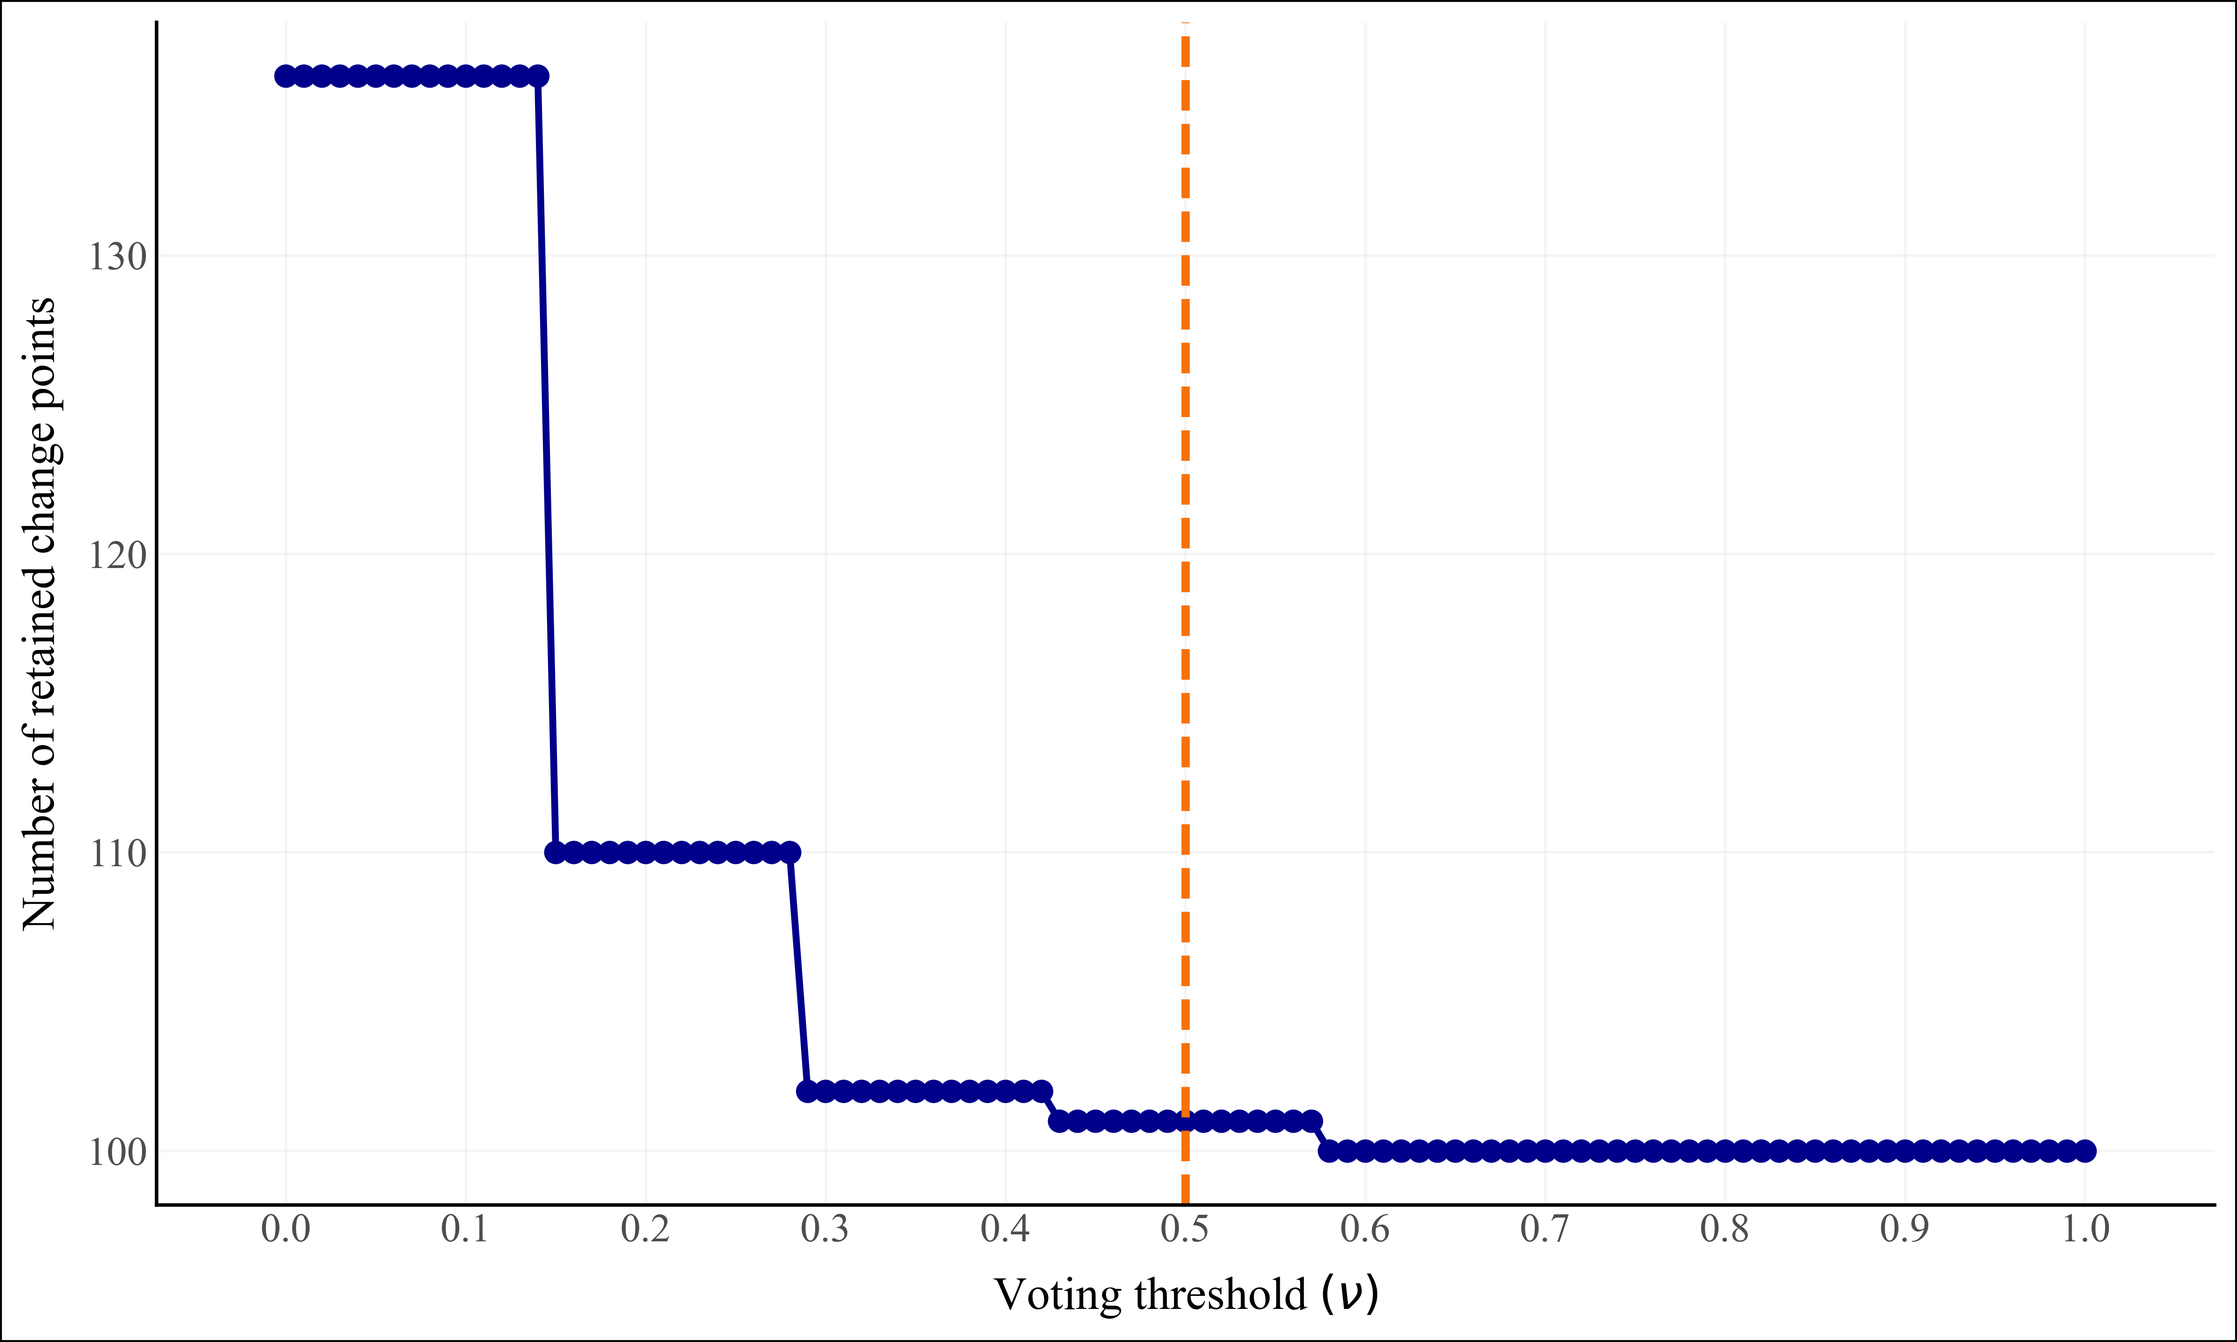
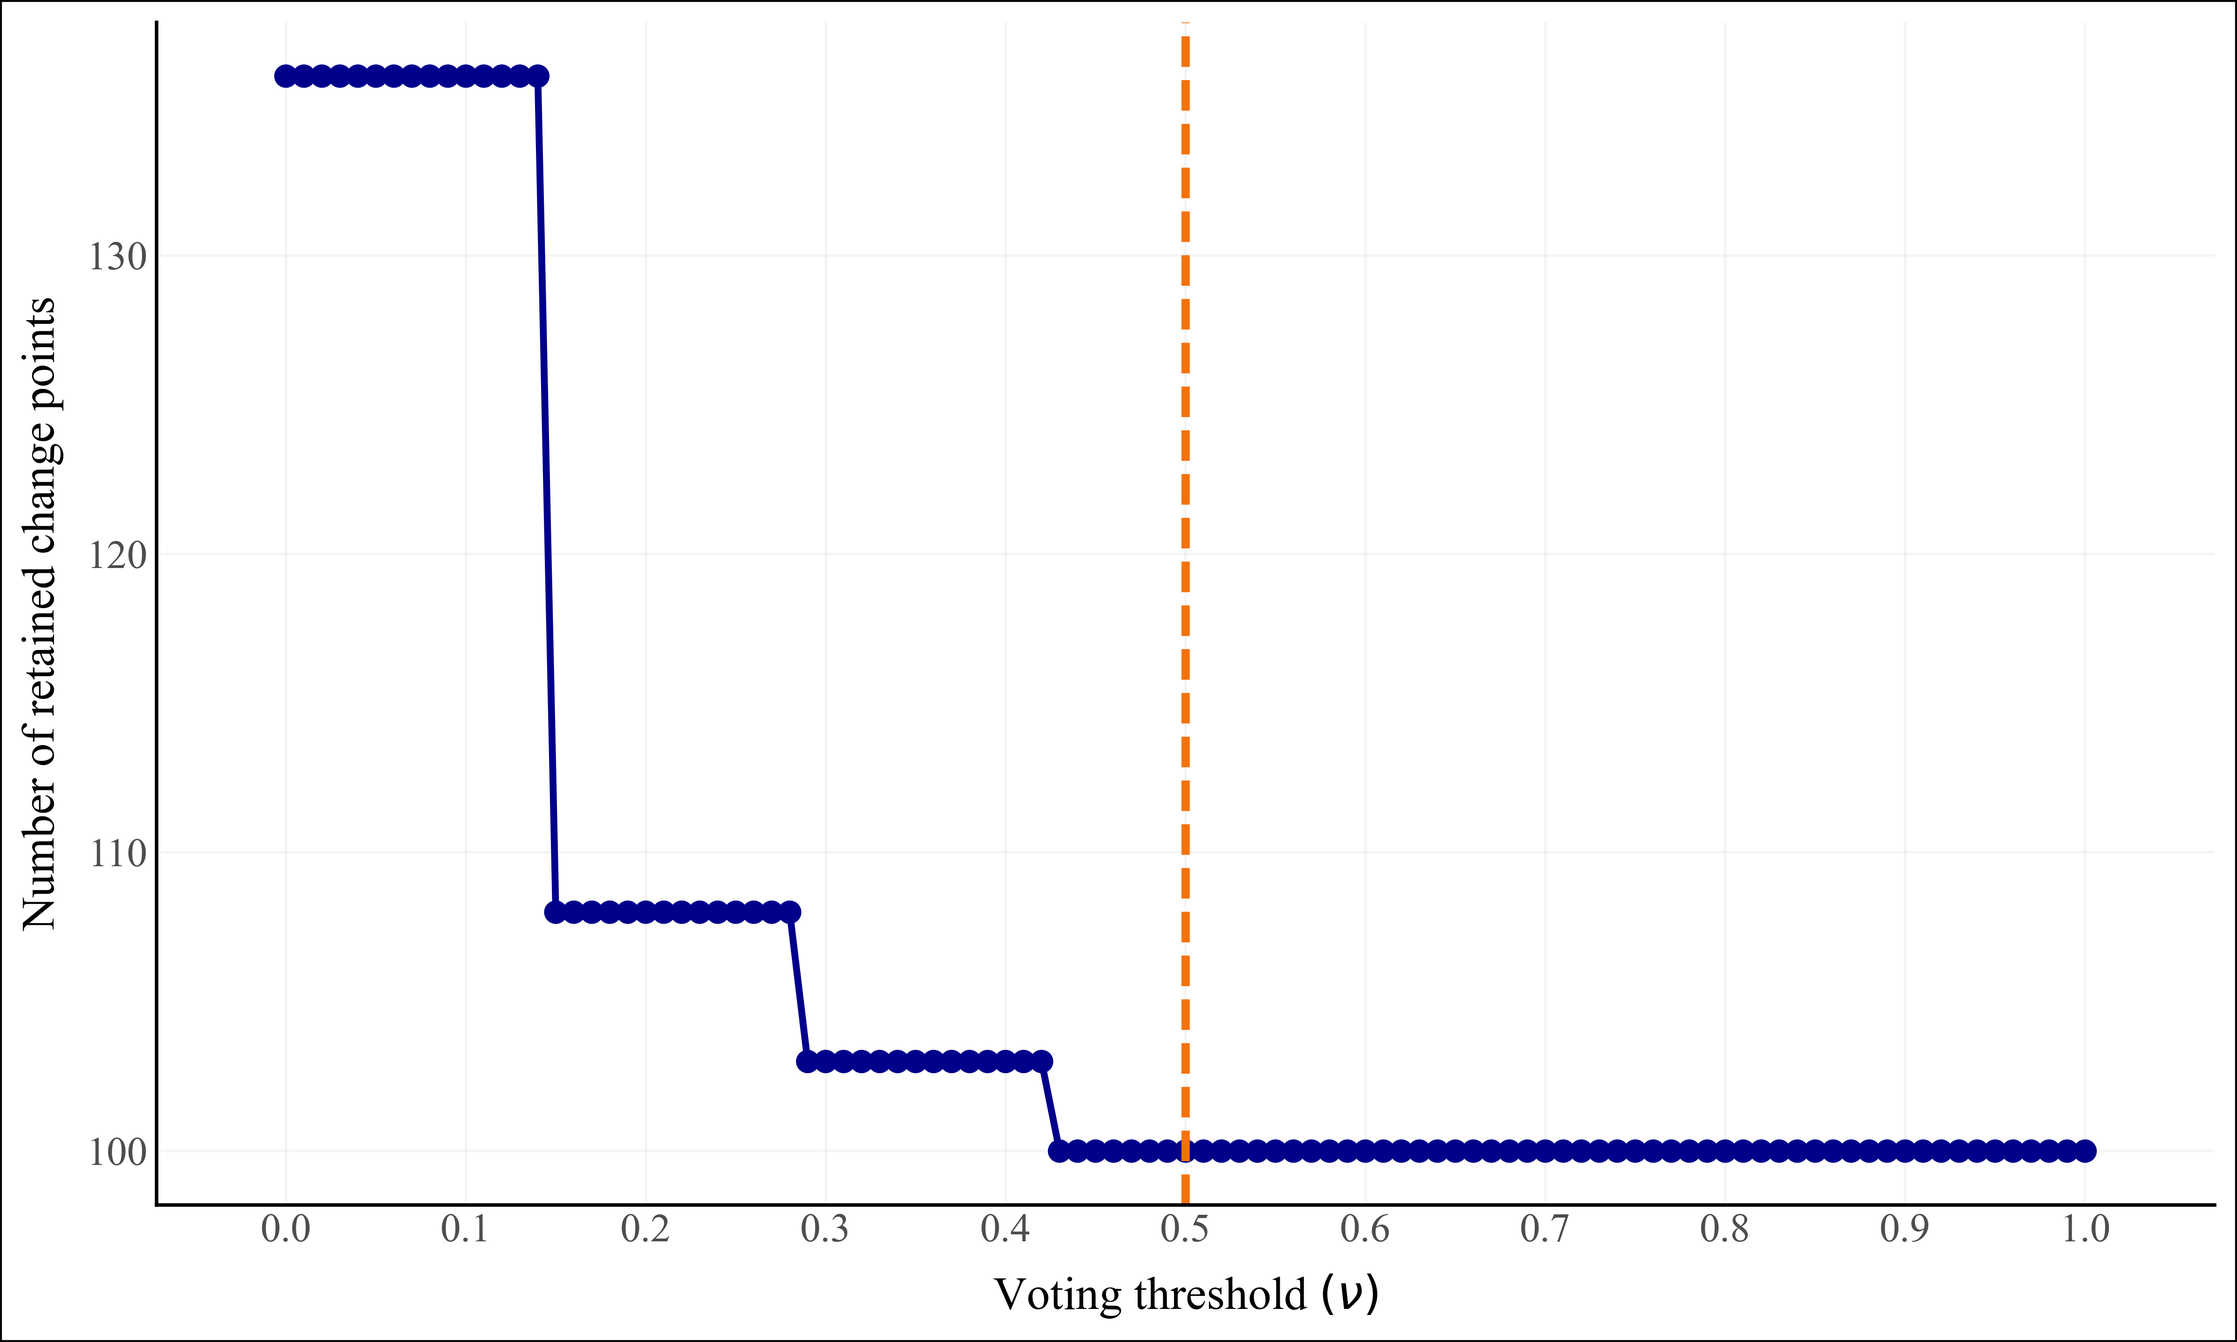
documentation changes

Changed region(s): [[0.3438, 0.7812, 0.5938, 0.875], [0.2188, 0.625, 0.375, 0.7188]]

diff --git a/python/scan/plotting.py b/python/scan/plotting.py
@@ -20,7 +20,7 @@ from plotnine import (
     scale_linetype_manual,
     scale_x_continuous,
     theme,
-    theme_minimal
+    theme_minimal,
 )
 
 from .result import ScanResult
@@ -69,6 +69,114 @@ def _scan_plot_theme(legend_position="none"):
         legend_background=element_blank(),
         legend_box_background=element_blank(),
     )
+
+def plot_time_series(
+    x: Iterable[float],
+    change_points: Optional[Iterable[int]] = None,
+    true_change_points: Optional[Iterable[int]] = None,
+    index: Optional[Iterable[float]] = None,
+    x_label: str = "Time",
+    y_label: str = "Value",
+    title: str = "Time series",
+):
+    """Plot a univariate time series with optional change-point markers."""
+    y = np.asarray(x, dtype=np.float64).ravel()
+
+    if index is None and hasattr(x, "index"):
+        t = np.asarray(x.index)
+    elif index is None:
+        t = np.arange(y.size)
+    else:
+        t = np.asarray(list(index))
+
+    if len(t) != y.size:
+        raise ValueError("index must have the same length as x")
+
+    def _map_cps_to_axis(cps):
+        if cps is None:
+            return []
+
+        mapped = []
+        for cp in cps:
+            cp_int = int(cp)
+            if 0 <= cp_int < len(t):
+                mapped.append(t[cp_int])
+            else:
+                mapped.append(cp)
+        return mapped
+
+    df = pd.DataFrame(
+        {
+            "t": t,
+            "value": y,
+        }
+    )
+
+    detected_df = pd.DataFrame(
+        {
+            "cp": _map_cps_to_axis(change_points),
+            "kind": "Detected change points",
+        }
+    )
+
+    true_cp_df = pd.DataFrame(columns=["cp", "kind"])
+    if true_change_points is not None:
+        true_cp_df = pd.DataFrame(
+            {
+                "cp": _map_cps_to_axis(true_change_points),
+                "kind": "True change points",
+            }
+        )
+
+    p = (
+        ggplot(df, aes("t", "value"))
+        + geom_line(color="#00008B", size=0.9, show_legend=False)
+        + labs(
+            x=x_label,
+            y=y_label,
+            color=None,
+            linetype=None,
+            title=title,
+        )
+        + _scan_plot_theme(legend_position="bottom")
+    )
+
+    if not detected_df.empty:
+        p = p + geom_vline(
+            detected_df,
+            aes(xintercept="cp", color="kind", linetype="kind"),
+            size=0.7,
+            alpha=0.9,
+        )
+
+    if not true_cp_df.empty:
+        p = p + geom_vline(
+            true_cp_df,
+            aes(xintercept="cp", color="kind", linetype="kind"),
+            size=0.7,
+            alpha=0.85,
+        )
+
+    p = (
+        p
+        + scale_color_manual(
+            values={
+                "Detected change points": "#f5710a",
+                "True change points": "black",
+            }
+        )
+        + scale_linetype_manual(
+            values={
+                "Detected change points": "dashed",
+                "True change points": "dotted",
+            }
+        )
+    )
+
+    if np.issubdtype(np.asarray(t).dtype, np.number):
+        p = p + scale_x_continuous(labels=_comma_labels)
+
+    return p
 
 
 def plot_change_points(

diff --git a/python/scan/__init__.py b/python/scan/__init__.py
@@ -10,6 +10,7 @@ from .plotting import (
     plot_change_points,
     plot_swal_curve,
     plot_thresholds,
+    plot_time_series,
     plot_vote_scree,
     plot_window_votes,
 )
@@ -46,6 +47,7 @@ __all__ = [
     "plot_change_points",
     "plot_swal_curve",
     "plot_thresholds",
+    "plot_time_series",
     "plot_vote_scree",
     "plot_window_votes",
     "precision_recall_cpd",

diff --git a/docs/documentation.md b/docs/documentation.md
@@ -8,7 +8,7 @@
 scan_cpd(x, window_sizes=None, alpha=0.05, n_boot=400, vote_threshold=0.5,
          min_window=15, max_window=None, block_length=None, block_length_rule="n^(1/3)",
          taper="tukey", ipm="wasserstein", tolerance=None, random_state=None,
-         n_jobs=None, return_all=True, *, change_type=None, eps=1e-12, batch_size=32)
+         n_jobs=1, return_all=True, *, change_type=None, eps=1e-12, batch_size=32)
 
 
 ```
@@ -24,16 +24,44 @@ scan_cpd(x, window_sizes=None, alpha=0.05, n_boot=400, vote_threshold=0.5,
 | `block_length`      | Integer or `None`, default `None` | Block length used in the tapered block bootstrap. If `None`, the backend uses the rule specified by `block_length_rule`.                                                                                                                                             |
 | `block_length_rule` | String, default `"n^(1/3)"`       | Rule used to choose the bootstrap block length when `block_length=None`. Currently, `"n^(1/3)"` is supported.                                                                                                                                                        |
 | `taper`             | String, default `"tukey"`         | Tapering method used in the block bootstrap. Use `"tukey"` for Tukey tapering or `"none"` for no tapering.                                                                                                                                                           |
-| `ipm`               | String, default `"wasserstein"`   | Discrepancy measure used to compare adjacent windows. Supported values are `"wasserstein"`, `"mean"`, `"var"`, and `"distribution"`.                                                                                                                                 |
+| `ipm`               | String, default `"wasserstein"`   | Discrepancy measure used to compare adjacent windows. Supported aliases include `"wasserstein"`, `"mean"`, `"var"`, and `"meanvar"`.                                                                                                                                 |
 | `tolerance`         | Integer or `None`, default `None` | Distance used to merge nearby detections across different window sizes. If `None`, the smallest window size is used as the default merging tolerance.                                                                                                                |
 | `random_state`      | Integer or `None`, default `None` | Random seed used for bootstrap sampling. Set this value to make results reproducible.                                                                                                                                                                                |
-| `n_jobs`            | Integer, `-1`, or `None`, default `None` | Number of Rust/Rayon worker threads used for parallel computation. `None` automatically uses one fewer than the available CPU cores, `-1` uses all cores, and a positive integer requests that many workers, capped at the system CPU count.                                                                                                                                     |
+| `n_jobs`            | Integer or `None`, default `1`    | Number of Rust/Rayon worker threads used for parallel computation. Use `None` to allow Rayon to use its default thread behavior.                                                                                                                                     |
 | `return_all`        | Boolean, default `True`           | If `True`, returns detailed diagnostics in addition to the final detected change points. If `False`, omits some detailed intermediate outputs.                                                                                                                       |
-| `change_type`       | String or `None`, default `None`  | Explicitly specifies the type of change to detect. Supported options are exactly `"mean"`, `"var"`, and `"distribution"`. When provided, this can be used as a clearer alternative to setting `ipm` directly. |
+| `change_type`       | String or `None`, default `None`  | Explicitly specifies the type of change to detect. Supported options include `"mean"`, `"var"`, `"meanvar"`, and broader distributional settings through the discrepancy choice. When provided, this can be used as a clearer alternative to setting `ipm` directly. |
 | `eps`               | Float, default `1e-12`            | Small numerical constant used for stability, especially in local standardization or scale-related calculations.                                                                                                                                                      |
 | `batch_size`        | Integer, default `32`             | Internal batch size used when processing bootstrap computations. Larger values may improve throughput but can increase memory use.                                                                                                                                   |
 
-`scan_cpd` returns a `ScanResult` object. Most users need only `result.change_points`, but the object also stores scores, votes, thresholds, per-window diagnostics, parameters, and metadata. See [Results](docs/scanresult.md) documentation for the full output description.
+`scan_cpd` returns a `ScanResult` object. Most users need only `result.change_points`, but the object also stores scores, votes, thresholds, per-window diagnostics, parameters, and metadata.
+
+
+### `ScanResult`
+
+The `scan_cpd` function returns a `ScanResult` object. This object collects the main outputs of the SCAN procedure in one place, including the final detected change points, detection scores, voting information, per-window diagnostics, threshold values, input parameters, metadata, and the raw backend output.
+
+| Attribute | Description | Usage |
+|---|---|---|
+| `change_points` | Final estimated change-point locations returned by SCAN. | This is the main output users usually need for downstream analysis or plotting. |
+| `scores` | Detection scores associated with candidate or final change points. | Helps assess the relative strength of detected changes. |
+| `votes` | Number or proportion of window sizes that support each detected change point. | Useful for understanding how stable a detection is across multiple window sizes. |
+| `per_window_diagnostics` | Diagnostic information from each individual window size. | Helps inspect which window sizes contributed to each detection. |
+| `thresholds` | Bootstrap or calibration thresholds used during detection. | Important for reproducibility and for understanding the rejection rule. |
+| `parameters` | The parameter values used in the call to `scan_cpd`, such as `window_sizes`, `alpha`, `n_boot`, and `vote_threshold`. | Makes the result self-contained and easier to reproduce. |
+| `metadata` | Additional run information, such as package version, runtime information, random seed, or backend details. | Useful for experiments, reporting, debugging, and reproducibility. |
+| `raw_backend_output` | Raw output returned by the Rust/PyO3 backend before post-processing. | Mainly useful for advanced users, debugging, or development. |
+
+The object returned by `scan_cpd` stores the main outputs of the detection procedure as attributes. Each attribute can be accessed using the dot operator (`.`), which makes it easy to inspect the detected change points, detection scores, voting information, run parameters, metadata, and per-window results.
+
+For example:
+```python
+print(result.change_points)
+print(result.scores)
+print(result.votes)
+print(result.parameters)
+print(result.metadata)
+print(result.cp_dict)
+```
 
 ### `scan_single_window(...)`
 
@@ -55,8 +83,43 @@ Useful for debugging one window size, inspecting scan statistics, and studying l
 | `n_boot`       | Integer, default `400`            | Number of tapered block bootstrap replications used for each local comparison. Larger values give more stable thresholds but increase computation time.                          |
 | `block_length` | Integer or `None`, default `None` | Block length used in the tapered block bootstrap. If `None`, the backend uses its default block-length rule.                                                                     |
 | `taper`        | String, default `"tukey"`         | Tapering method used in the block bootstrap. Use `"tukey"` for Tukey tapering or `"none"` for no tapering.                                                                       |
-| `ipm`          | String, default `"wasserstein"`   | Discrepancy measure used to compare adjacent windows. Supported values are `"wasserstein"`, `"mean"`, `"var"`, and `"distribution"`.                                             |
+| `ipm`          | String, default `"wasserstein"`   | Discrepancy measure used to compare adjacent windows. Supported aliases include `"wasserstein"`, `"mean"`, `"var"`, and `"meanvar"`.                                             |
 | `random_state` | Integer or `None`, default `None` | Random seed used for bootstrap sampling. Set this value to make results reproducible.                                                                                            |
-| `change_type`  | String or `None`, default `None`  | Explicitly specifies the type of change to detect. Supported options are exactly `"mean"`, `"var"`, and `"distribution"`. |
+| `change_type`  | String or `None`, default `None`  | Explicitly specifies the type of change to detect. Supported options include `"mean"`, `"var"`, `"meanvar"`, and broader distributional settings through the discrepancy choice. |
 | `eps`          | Float, default `1e-12`            | Small numerical constant used for numerical stability, especially in local standardization or scale-related calculations.                                                        |
 | `batch_size`   | Integer, default `32`             | Internal batch size used when processing bootstrap computations. Larger values may improve throughput but can increase memory use.                                               |
+
+### `WindowResult`
+
+The `WindowResult` object contains the diagnostics from running SCAN at one specific window size. It is returned directly by `scan_single_window`, and it also appears inside `ScanResult.window_results`, where each key is a window size and each value is a `WindowResult`.
+
+| Attribute | Description | Why it is useful |
+|---|---|---|
+| `window_size` | The integer window size used for this scan. | Identifies which local scale produced the diagnostics and candidate change points. |
+| `change_points` | Candidate change-point locations detected using this single window size. | Helps inspect how one window size behaves before ensemble voting merges results across windows. |
+| `starts` | Starting indices of the scanned local regions. | Shows where the detector placed each adjacent-window comparison along the time series. |
+| `statistics` | Observed scan statistics computed at each scan start. | Useful for seeing where the local discrepancy between adjacent windows is large. |
+| `tapered_block_bootstrap_threshold` | Tapered block bootstrap thresholds for each scanned region. | Provides the rejection threshold; detections occur when the observed statistic exceeds this threshold. |
+| `localized_regions` | Local `(start, end)` regions that were flagged and then refined into candidate change points. | Helps trace each detected candidate back to the region where localization was performed. |
+
+Per-window results are stored in `result.window_results`, which is indexed by window size. This allows users to inspect the candidate change points and diagnostics produced by each individual window size before the final voting or aggregation step. In the example below, `40` refers to the window size used during the scan.
+
+```python
+wr = result.window_results[40]
+print("Window size:", wr.window_size)
+print("Candidate CPs:", wr.change_points)
+```
+
+### `swal_statistic(...)`
+
+
+`swal_statistic(x)`
+
+Returns the localized change-point position inside a flagged local region using the SWAL statistic used in the localization step.
+
+This function is useful when a candidate region has already been identified and you want to refine the estimated change-point location within that region. This function can be used as a custom 
+
+| Parameter | Type / Default | Description |
+|---|---|---|
+| `x` | One-dimensional numeric sequence | Local segment of the time series containing a suspected change point. The sequence must contain at least 3 finite observations. |
+| `change_type` | String, default `"distribution"` | Type of change to localize. Supported values are `"mean"`, `"var"`, and `"distribution"`. |
